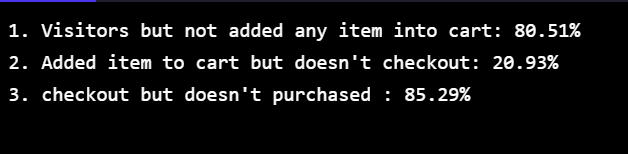
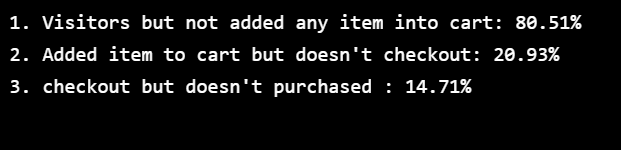
error_corrected

diff --git a/e-commerce website funnel/script.py b/e-commerce website funnel/script.py
@@ -25,7 +25,7 @@ cart_visitors = visit_cart[visit_cart.cart_time.isnull()]
 #print(len(cart_visitors))
 
 
-print("1. Visitors but not added any item into cart: {}".format(round(100.0 * len(cart_visitors) / len(visit_cart), 2)))
+print("1. Visitors but not added any item into cart: {}%".format(round(100.0 * len(cart_visitors) / len(visit_cart), 2)))
 
 
 cart_checkout = pd.merge(cart, checkout, how='left')
@@ -35,13 +35,13 @@ cart_checkout = pd.merge(cart, checkout, how='left')
 not_purchased = len(cart_checkout[cart_checkout.checkout_time.isnull()])
 #print(not_purchased)
 
-print("2. Added item to cart but doesn't checkout: {}".format(round(100.0 * not_purchased / len(cart_checkout), 3)))
-
+print("2. Added item to cart but doesn't checkout: {}%".format(round(100.0 * not_purchased / len(cart_checkout), 3)))
 
 
 all_data = visits.merge(cart, how='left').merge(checkout, how='left').merge(purchase, how='left')
-#print(all_data.head())
+#print(all_data.head(10))
 
 checkout_num = len(all_data[~all_data.checkout_time.isnull()])
-purchased_num = len(all_data[~all_data.purchase_time.isnull()])
-print("3. checkout but doesn't purchased : {}".format(round(100.0 * purchased_num / checkout_num, 2)))
+purchased_num = len(all_data[(~all_data.checkout_time.isnull()) & (all_data.purchase_time.isnull())])
+
+print("3. checkout but doesn't purchased : {}%".format(round(100.0 * purchased_num / checkout_num, 2)))
